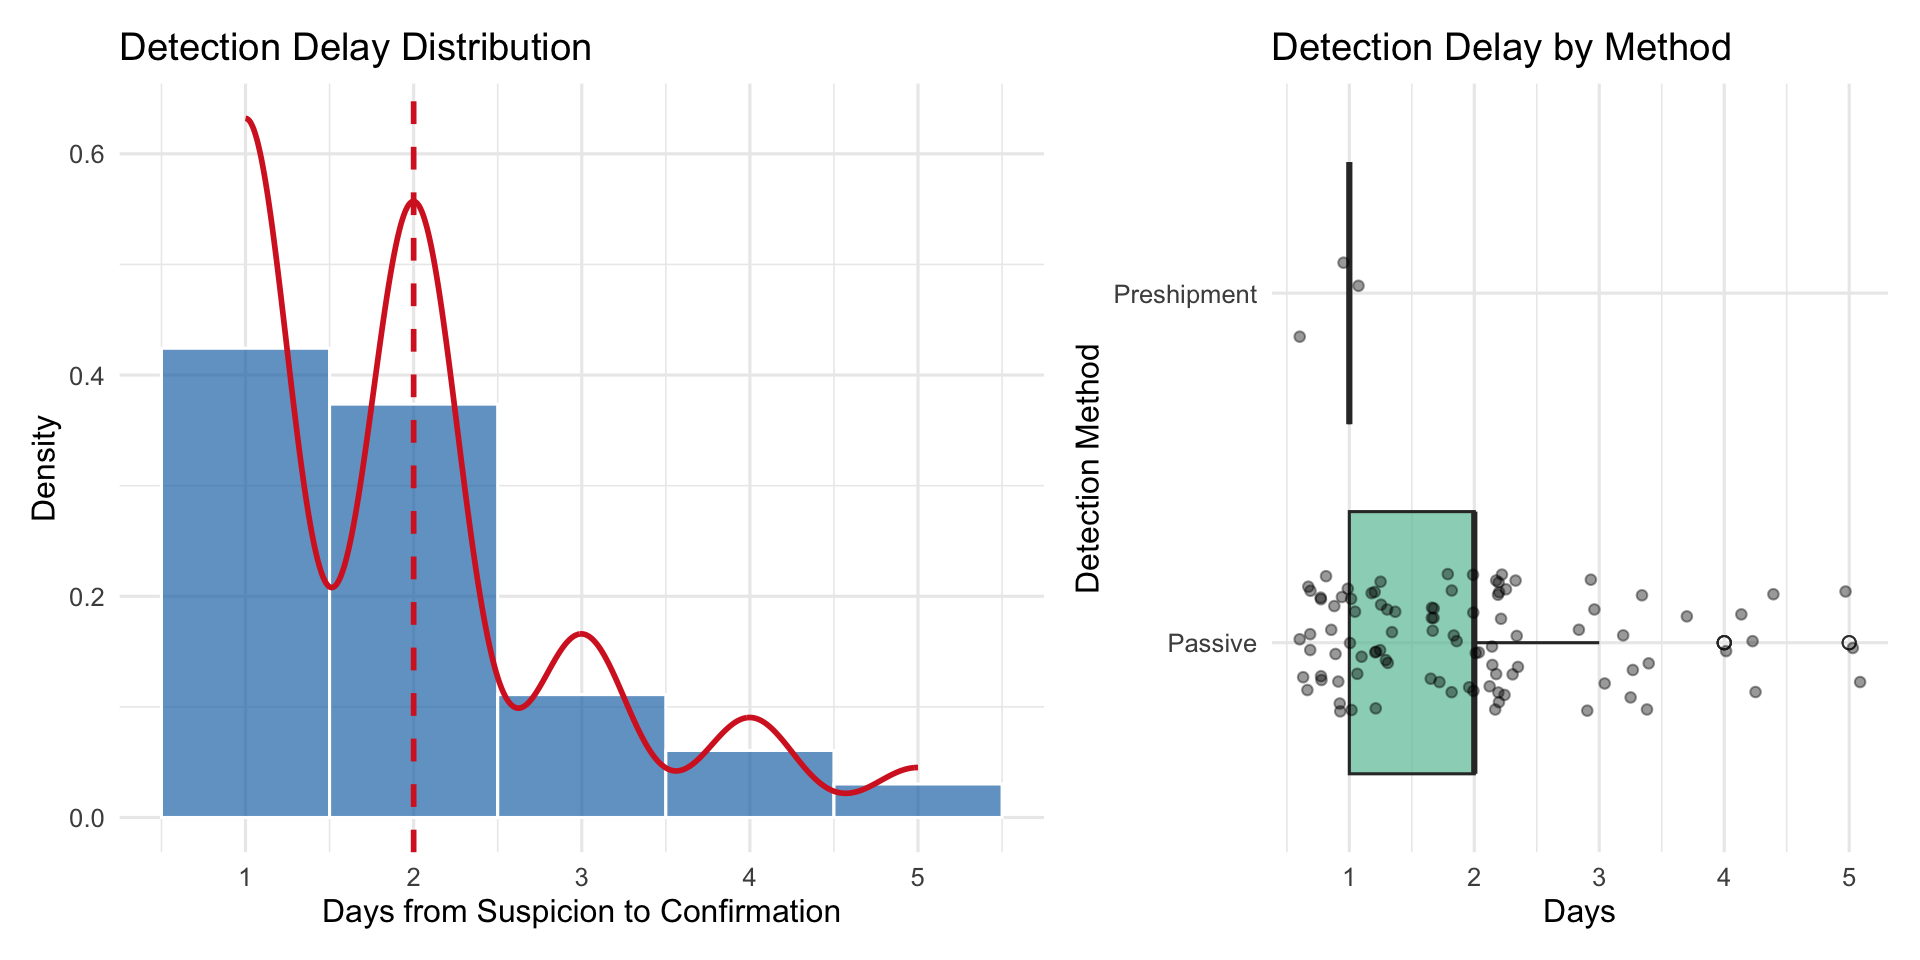
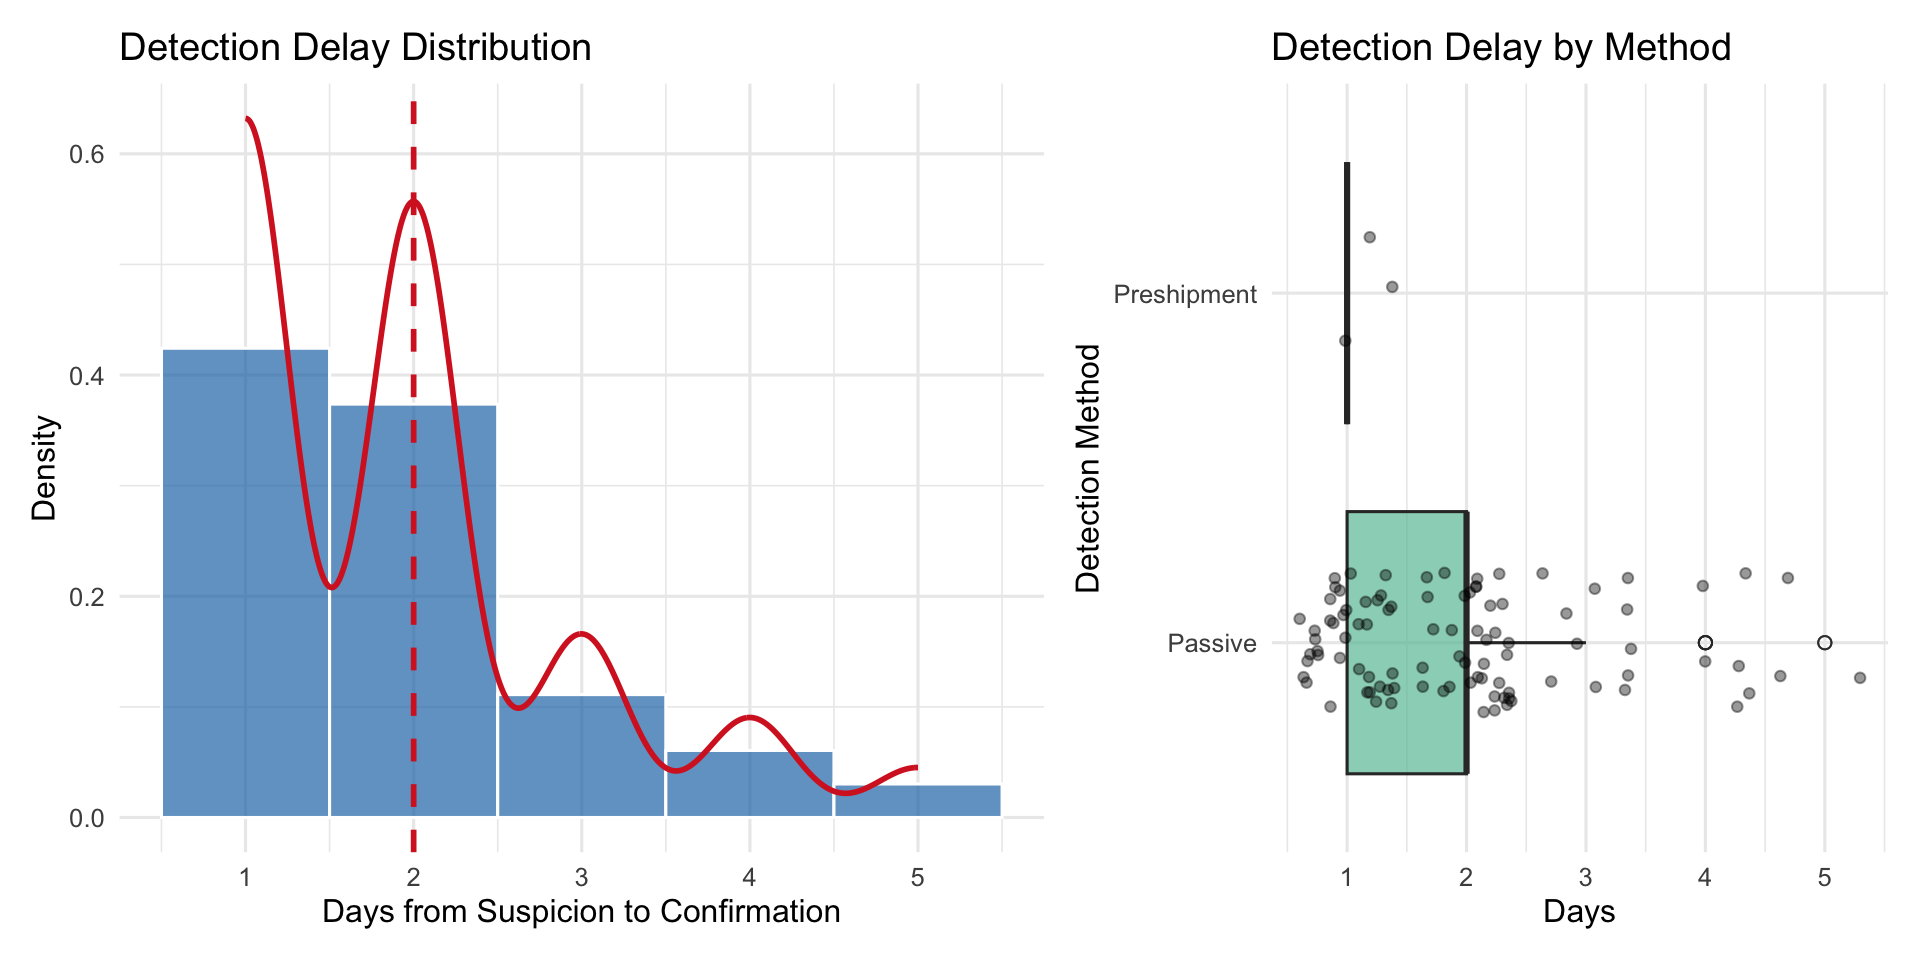
Built site for gh-pages

diff --git a/index.html b/index.html
@@ -123,7 +123,7 @@ ul.task-list li input[type="checkbox"] {
     <h2 id="toc-title">On this page</h2>
    
   <ul>
-  <li><a href="#hpai-modelling-challenge" id="toc-hpai-modelling-challenge" class="nav-link active" data-scroll-target="#hpai-modelling-challenge">HPAI Modelling Challenge</a>
+  <li><a href="#hpai-modelling-challenge" id="toc-hpai-modelling-challenge" class="nav-link active" data-scroll-target="#hpai-modelling-challenge">2026 HPAI Modelling Challenge</a>
   <ul class="collapse">
   <li><a href="#phase-1" id="toc-phase-1" class="nav-link" data-scroll-target="#phase-1">Phase 1</a></li>
   </ul></li>
@@ -154,7 +154,7 @@ ul.task-list li input[type="checkbox"] {
 
 <p>Shared resources to support outbreak response theme activity.</p>
 <section id="hpai-modelling-challenge" class="level2">
-<h2 class="anchored" data-anchor-id="hpai-modelling-challenge">HPAI Modelling Challenge</h2>
+<h2 class="anchored" data-anchor-id="hpai-modelling-challenge">2026 HPAI Modelling Challenge</h2>
 <p>Analysis reports for the simulated HPAI outbreak scenario (<a href="https://www.wiliman-id.eu/modelling-challenge/">WILIMAN-ID modelling challenge</a>).</p>
 <section id="phase-1" class="level3">
 <h3 class="anchored" data-anchor-id="phase-1">Phase 1</h3>
